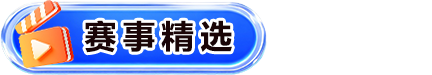
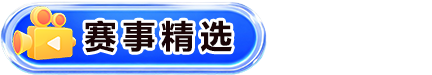
style: adjust responsive layout and float ad button sizing
- Update padding values for mobile breakpoints
- Change mobile breakpoint from 430px to 480px
- Adjust float ad button width (151px → 140px) and height (58px → 60px)
- Increase float ad container padding (120px → 150px)

Changed region(s): [[0.0301, 0.0, 0.1806, 0.9067]]

diff --git a/src/components/HomePage.vue b/src/components/HomePage.vue
@@ -368,16 +368,16 @@ const scrollToTop = () => {
 
 @media (max-width: 768px) {
   #home-main {
-    padding: 2.5rem 1.25rem;
+    padding: 2.5rem 15px !important;
   }
 }
 
-@media (max-width: 430px) {
+@media (max-width: 480px) {
   #home-main {
     border-top: 2px solid #dfb082;
     border-bottom: none !important;
-    padding: 1.5rem 0.625rem;
-    padding-bottom: 3rem;
+    padding: 1.5rem 15px !important;
+    padding-bottom: 3rem !important;
   }
 }
 
@@ -1759,13 +1759,13 @@ const scrollToTop = () => {
     gap: 0 !important;
     /* 增加間距讓按鈕更分散 */
     width: 100% !important;
-    padding: 0 120px !important;
+    padding: 0 150px !important;
     box-sizing: border-box !important;
   }
 
   #float-ad .links .item {
-    width: 151px !important;
-    height: 58px !important;
+    width: 140px !important;
+    height: 60px !important;
     display: flex !important;
     align-items: center !important;
     justify-content: center !important;
@@ -1774,9 +1774,9 @@ const scrollToTop = () => {
   }
 
   #float-ad .links .item :deep(img) {
-    width: 151px !important;
-    height: 58px !important;
-    max-width: 151px !important;
+    width: 140px !important;
+    height: 60px !important;
+    max-width: 140px !important;
     object-fit: fill !important;
     /* 使用 fill 確保圖片完全填滿容器 */
   }
